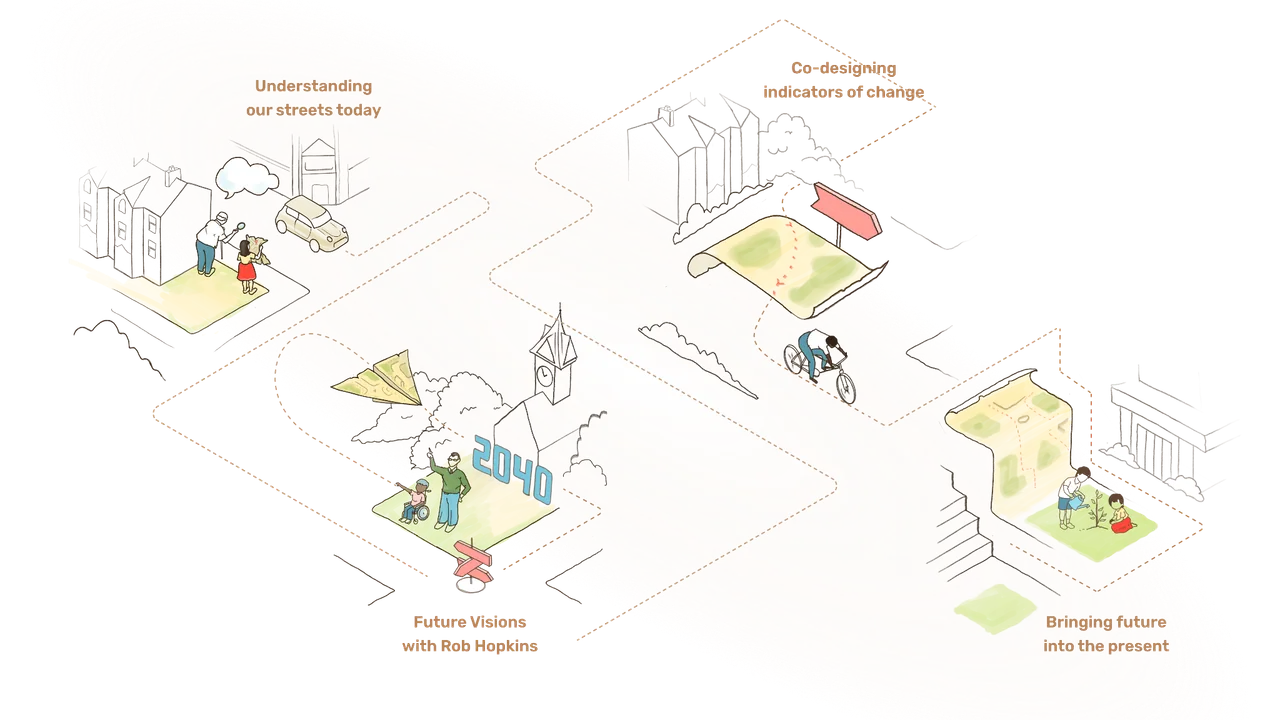
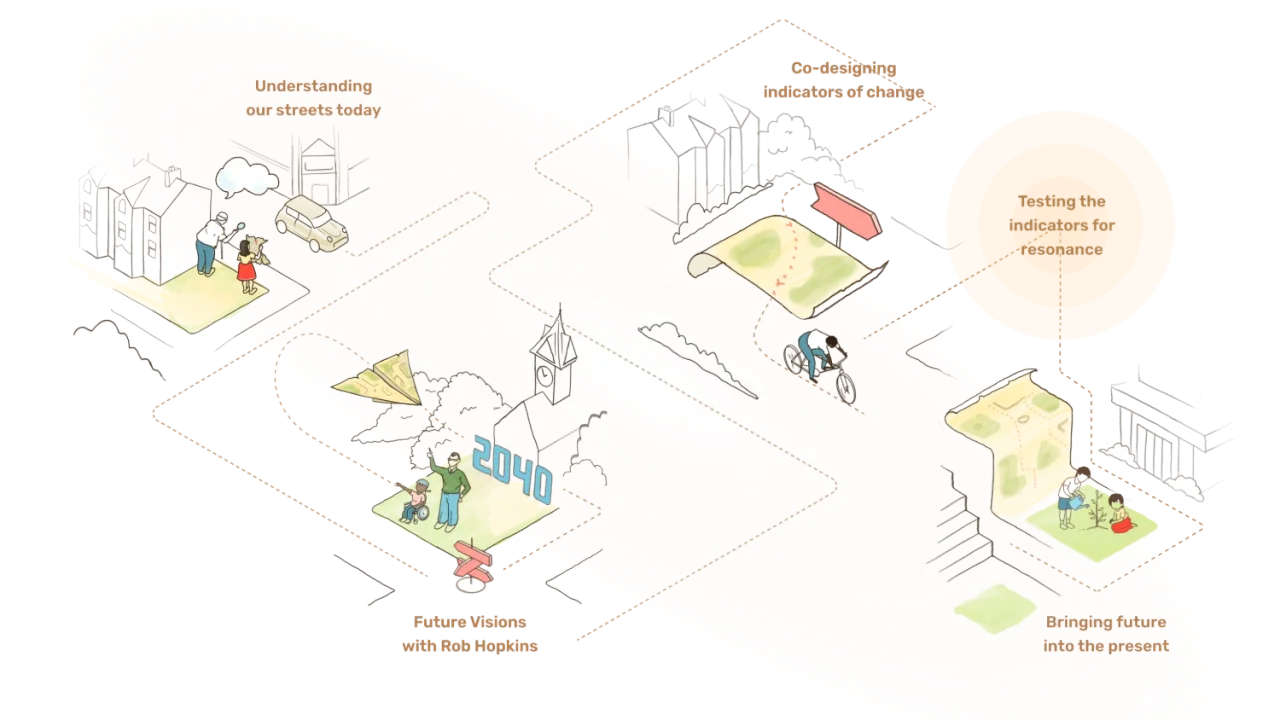
About: timeline and resonance images, journey image, copy and name updates
- "What kind of vision is this?": the futures timeline (three-horizons style)
  after the first paragraph, with its caption ("A visualisation of our process
  inspired by the three-horizons map", 14/21, centred).
- The journey: new workshop journey image, now including "Testing the
  indicators for resonance".
- Testing for resonance: longer copy (feedback, refining the wording, the
  closing question) and the results chart under it.
- Who made it happen: Har Suyash Bahadur Sinha.

Images resized to 1280px wide WebP.

diff --git a/about.html b/about.html
@@ -186,6 +186,19 @@
                 of thriving <strong>streets and neighbourhoods that work for everyone</strong> brought to life through bottom-up,
                 community-led indicators.
               </p>
+              <figure class="about-figure">
+                <img
+                  src="./images/about/futures-timeline.webp"
+                  width="1280"
+                  height="931"
+                  loading="lazy"
+                  decoding="async"
+                  alt="A timeline from Now (2026) through the Near Future (transition) to the Far Future (vision). From now, what to hold on to (sense of community, trees and green spaces, local distinctiveness, peace and safety, accessible infrastructure) and what to bring in (shared spaces, much more nature, affordable and accessible transport options, ownership in decision-making) lead towards the indicators, stories that indicate change towards a preferable future (Workshops 3 and 4), and the ‘What if?’ future visions (Workshop 2). What to let go of (car dominance, physical neglect, pavement parking and obstructions, inequality and spatial injustice) and keep away (more cars infrastructure, divisive politics, losing local character, pollution and traffic, high-tech consumer culture) curve away below."
+                />
+                <figcaption class="about-figure__caption--large">
+                  A visualisation of our process inspired by the three-horizons map
+                </figcaption>
+              </figure>
               <p>
                 We asked people questions like, ‘what do you love about your place?’ and ‘what do you want more of? Less of?’ And the
                 all-powerful ‘what if?’. In groups, after we had answers to these questions, workshop participants then identified core
@@ -366,7 +379,7 @@
                   height="720"
                   loading="lazy"
                   decoding="async"
-                  alt="The workshop journey, drawn as a dotted path through streets: Understanding our streets today; Future Visions with Rob Hopkins; Co-designing indicators of change; and Bringing future into the present."
+                  alt="The workshop journey, drawn as a dotted path through streets: Understanding our streets today; Future Visions with Rob Hopkins; Co-designing indicators of change; Testing the indicators for resonance; and Bringing future into the present."
                 />
               </figure>
               <ul class="prose-list prose-list--plain">
@@ -384,7 +397,19 @@
                 </li>
                 <li>
                   <strong>Testing for resonance</strong> (summer). 120 people travelled through the draft indicators online and told us
-                  whether they rang true.
+                  whether they rang true. We had some great feedback from the process and worked with peoples’ comments to refine the
+                  wording. We asked people at the end, “overall, taking these experiences together, would you want this in your place?”
+                  Over 90% said yes.
+                  <figure class="about-figure">
+                    <img
+                      src="./images/about/resonance-results.webp"
+                      width="1280"
+                      height="479"
+                      loading="lazy"
+                      decoding="async"
+                      alt="Pie chart of 122 answers to “Thinking about all these experiences taken together, does it feel like the kind of future you would want…”: Yes 89%, Maybe, I have comments 9%, No 2%."
+                    />
+                  </figure>
                 </li>
                 <li>
                   <strong>5. Bringing the future into the present</strong> (12 November, central Oxford). This is the launch moment and
@@ -516,7 +541,7 @@
                   board and members of the Coalition for Healthy Streets and Active Travel.
                 </li>
                 <li>
-                  <strong>Suyash Sinha</strong> was the connecting thread across the series: analysing what emerged from each workshop,
+                  <strong>Har Suyash Bahadur Sinha</strong> was the connecting thread across the series: analysing what emerged from each workshop,
                   designing the participation experience and resonance testing, and building this site. He is a designer and futures
                   thinker with an MA from the Royal College of Art.
                 </li>

diff --git a/src/styles/main.css b/src/styles/main.css
@@ -1198,6 +1198,11 @@
     @apply text-label-hint text-text-muted;
   }
 
+  /* A caption that reads as part of the text: 14/21, centred under the image. */
+  .about-figure .about-figure__caption--large {
+    @apply text-center text-[0.875rem] leading-[1.3125rem] text-pretty;
+  }
+
   .about-quote {
     @apply flex flex-col gap-2 border-l-4 border-bg-tertiary pl-4 italic;
   }
